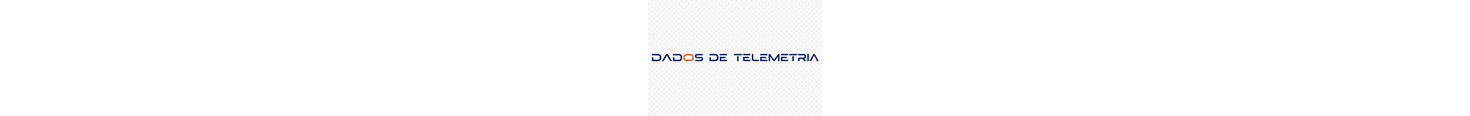
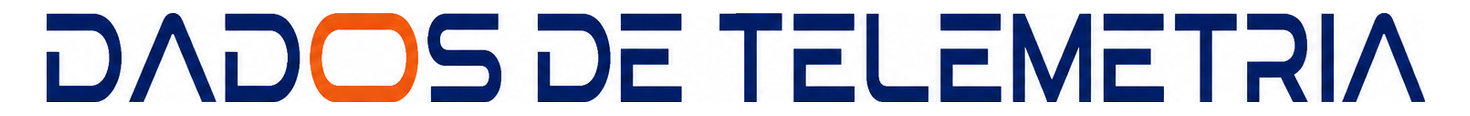
Corrige tamanho do título de telemetria no padrão do portal.
Recorta o PNG para preencher a largura do banner e alinha o cabeçalho ao estilo das demais páginas.

diff --git a/pages/dados-telemetria.html b/pages/dados-telemetria.html
@@ -10,11 +10,11 @@
 :root{--blue:#06245c;--blue2:#0b3a8a;--bg:#f5f7fb;--border:#dfe5ef;--text:#101828;--muted:#667085;--red:#dc2626;--green:#16a34a;--amber:#d97706;--white:#fff}
 *{box-sizing:border-box}
 body{margin:0;background:var(--bg);color:var(--text);font-family:Arial,Helvetica,sans-serif;min-height:100vh;display:flex;flex-direction:column}
-.header{background:#fff;display:grid;grid-template-columns:minmax(180px,1fr) auto minmax(280px,1fr);gap:16px;align-items:center;padding:8px 20px;border-bottom:1px solid #e8edf6}
-.header > a:first-child.portal-brand-mark{justify-self:start}
-.logo-tcgl{height:46px;object-fit:contain}
-.telemetria-title-wrap{justify-self:center;text-align:center;display:flex;flex-direction:column;align-items:center;min-width:0}
+.telemetria-title-wrap{display:flex;flex-direction:column;align-items:center;justify-content:center;min-width:0}
+h1.telemetria-title-art{margin:0;display:flex;align-items:center;justify-content:center;line-height:0}
+.telemetria-title-art img{display:block;width:min(340px,30vw);height:40px;max-height:40px;object-fit:contain}
 .telemetria-title-wrap .subtitle{text-align:center;font-size:13px;margin-top:4px;color:var(--blue);font-weight:800;letter-spacing:0;text-transform:uppercase}
+.logo-tcgl{height:46px;object-fit:contain}
 .header-actions{justify-self:end;display:flex;align-items:center;gap:10px}
 .ciop-session{display:flex;align-items:center;gap:6px;max-width:260px;padding:4px 8px;border:1px solid rgba(6,36,92,.12);border-radius:6px;background:#fff;color:var(--blue);font-size:11px}
 .ciop-session-user{max-width:150px;overflow:hidden;text-overflow:ellipsis;white-space:nowrap;font-weight:700}
@@ -93,12 +93,13 @@ table.telemetria tr.row-incoerente .veiculo{color:#92400e}
 .empty-state{text-align:center;padding:24px 20px;color:var(--muted);font-weight:700;font-size:13px}
 .contagem{font-size:12px;color:var(--muted);font-weight:700;margin-bottom:8px}
 .page-footer{padding:14px;text-align:center;color:var(--muted);font-size:11px;font-weight:700;border-top:1px solid var(--border);background:var(--white)}
-@media(max-width:720px){.header{grid-template-columns:1fr;text-align:center}}
+@media(max-width:1100px){.telemetria-title-art img{width:min(340px,84vw);height:38px;max-height:38px}}
+@media(max-width:560px){.telemetria-title-art img{width:min(290px,88vw);height:34px;max-height:34px}}
 </style>
 <link rel="stylesheet" href="../assets/css/portal-senha.css">
-<link rel="stylesheet" href="../assets/css/portal-titulos.css?v=20260702h">
+<link rel="stylesheet" href="../assets/css/portal-titulos.css?v=20260702i">
 <link rel="stylesheet" href="../assets/css/portal-brand.css">
-<link rel="stylesheet" href="../assets/css/portal-header.css?v=20260702h">
+<link rel="stylesheet" href="../assets/css/portal-header.css?v=20260702i">
 <link rel="stylesheet" href="../assets/css/portal-session.css">
 <script type="module" src="../assets/js/auth.js?v=20260704a"></script>
 <script src="../assets/js/portal-senha.js" defer></script>
@@ -109,7 +110,7 @@ table.telemetria tr.row-incoerente .veiculo{color:#92400e}
   <a class="portal-brand-mark" href="../index.html" aria-label="Portal CIOP TCGL Operações"><img class="portal-brand-art" src="../assets/img/titulo-portal-ciop.png" alt="Portal CIOP"><span class="portal-brand-meta">TCGL · Operações</span></a>
   <div class="telemetria-title-wrap">
     <h1 class="telemetria-title-art" aria-label="Dados de telemetria">
-      <img src="../assets/img/telemetria-titulo.png?v=20260702h" alt="Dados de telemetria">
+      <img src="../assets/img/telemetria-titulo.png?v=20260702i" alt="Dados de telemetria">
     </h1>
     <div class="subtitle">Clever · TCGL · Comparação · 250 veículos</div>
   </div>
